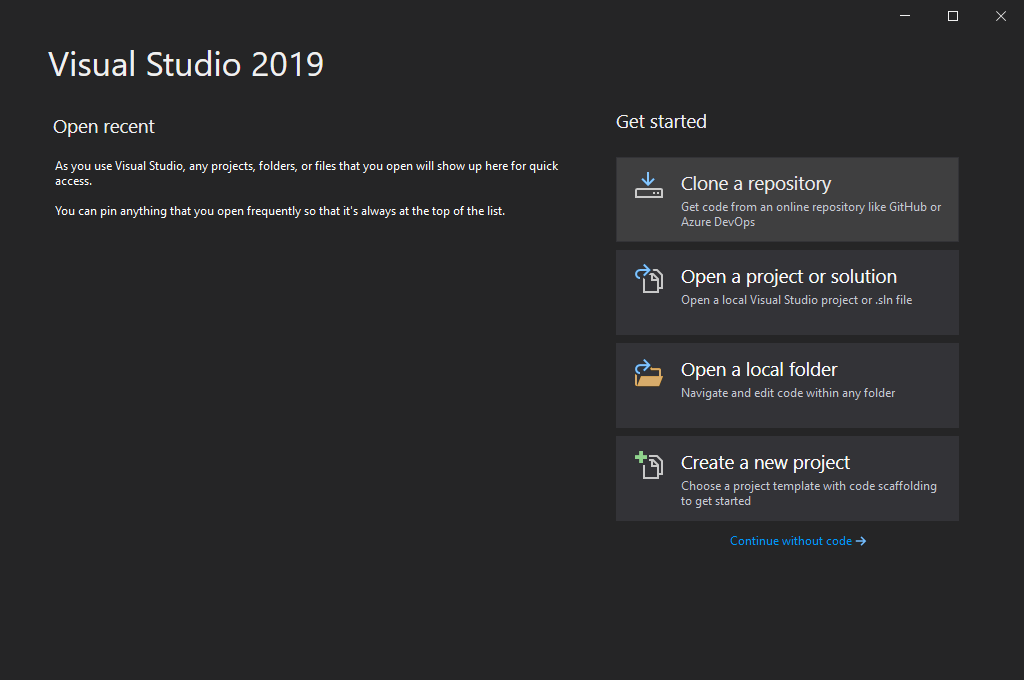
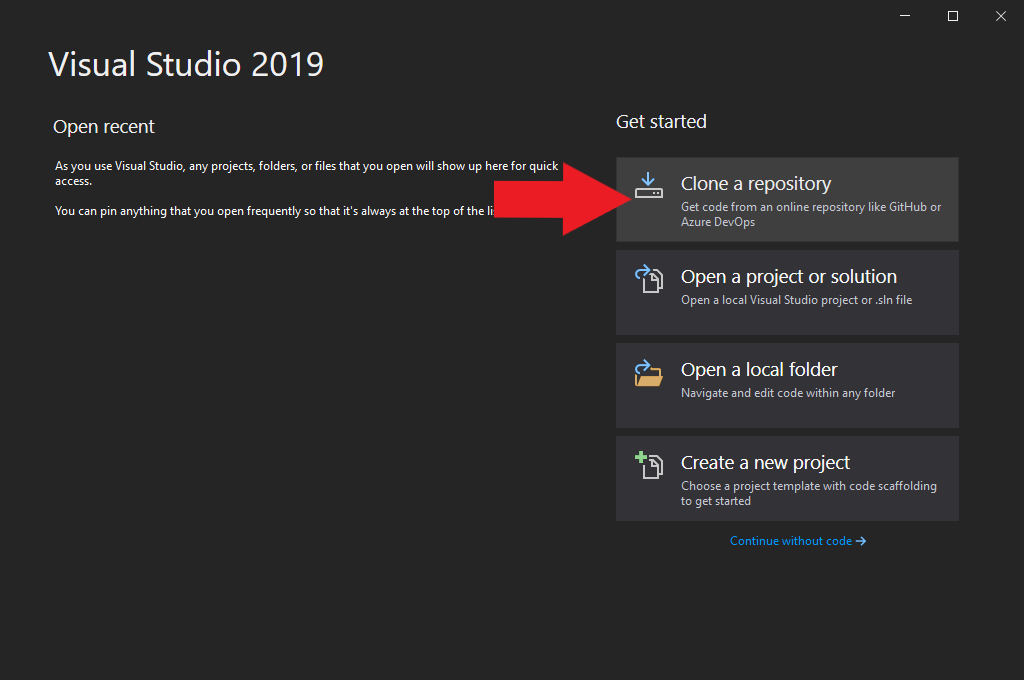
Edit images and formatting exercise1

Changed region(s): [[0.4688, 0.2471, 0.625, 0.3397]]

diff --git a/template/steeltoe/styles/docfx.js b/template/steeltoe/styles/docfx.js
@@ -37,14 +37,17 @@ $(function () {
           val = "\""+val+"\"";
           break;
       };
-      
-      var a=$("article").html().replace('%%'+localStorage.key(i)+'%%',val);
-      $("article").html(a);
-    }
 
-    a=$("article").html().replace(/%%/g,'');
-    $("article").html(a);
-    a=null;
+      $("pre").each(function(idx){
+        var a=$(this);
+        a.html(a.html().replace('%%'+localStorage.key(i)+'%%',val));
+      });
+    }
+    
+    $("pre").each(function(idx){
+      var a=$(this);
+      a.html(a.html().replace(/%%/g,'#'));
+    });
 
     var options = {
       contentSelector: "#wrapper",

diff --git a/labs/spring-one/exercise1.md b/labs/spring-one/exercise1.md
@@ -4,6 +4,7 @@ _disableToc: true
 _disableFooter: true
 ---
 
+[vs-get-started]: ~/labs/images/vs-get-started.png "Visual Studio get started"
 [vs-new-proj]: ~/labs/images/vs-new-proj.png "New visual studio web project"
 [vs-name-proj]: ~/labs/images/vs-configure-project.png "Name project"
 [vs-create-proj]: ~/labs/images/vs-create-project.png "Create an api project"
@@ -37,13 +38,21 @@ Begin building an API that will be enhanced with more components in the next exe
 
 ## Get Started
 
-Let's start by creating a brand new .NET Core webapi project. If you're using Visual Studio, choose `File > New > Project`
+Let's start by creating a brand new .NET Core webapi project.
 
 # [Visual Studio](#tab/visual-studio)
 
-![vs-new-proj] Choose ASP.NET Core Web Application from the default templates.
-![vs-name-proj] The default project name WebApplication1 will be used throughout, but you can rename.
-![vs-create-proj] Choose an application type of API, everything else can keep its default value.|
+Select "Create a new project". (If Visual Studio is already open, choose `File > New > Project`.)
+![vs-get-started]
+
+Choose "ASP.NET Core Web Application" from the default templates.
+![vs-new-proj]
+
+The default project name WebApplication1 will be used throughout, but you can rename.
+![vs-name-proj]
+
+Choose an application type of API, everything else can keep its default value.
+![vs-create-proj] 
 
 # [.NET CLI](#tab/dotnet-cli)
 
@@ -52,22 +61,28 @@ dotnet new webapi -n WebApplication1
 cd WebApplication1
 ```
 
+To use Visual Studio as your IDE open Visual Studio program, choose "Open a project or solution", navgiate to the WebApplication1 folder, and select the file "WebApplication1.csproj".
+
+To use VS Code as your IDE:
+```powershell
+code .
+```
+
 ***
 
-## Create .NET Core application
+## Add Project Dependencies
 
-Once created, open the new project in your IDE of choice (we will be using Visual Studio throughout this lab). The first action is to bring in the Steeltoe packages to the app. You can do this by right clicking on the project name in the solution explorer and choose `Manage NuGet packages...`. In the package manger window choose `Browse`, search for `Steeltoe.Management.Endpointcore`, and install.
+Once the project is created and opened in your IDE, the first action is to bring in the Steeltoe packages to the app.
 
 # [Visual Studio](#tab/visual-studio)
 
+Right click on the project name in the solution explorer and choose "Manage NuGet packages...". In the package manger window choose "Browse", then search for `Steeltoe.Management.Endpointcore`, and install.
 ![vs-add-endpointcore]
 
 Then search for the `Steeltoe.Extensions.Logging.DynamicLogger` package and install.
-
 ![vs-add-dynamiclogger]
 
 Finally the `Steeltoe.Management.TracingCore` package and install.
-
 ![vs-add-tracingcore]
 
 # [.NET CLI](#tab/dotnet-cli)
@@ -84,7 +99,13 @@ dotnet add package Steeltoe.Management.TracingCore
 
 Steeltoe features are broken up into packages, giving you the option to only bring in and extend the dependencies needed. As we implement each package within the application we'll discuss why these packages were chosen.
 
-Open `Program.cs` and append the adding statements to the host builder. Visual Studio should prompt to add the `using Steeltoe.Management.Endpoint` direction.
+Open "Program.cs" in the IDE and add the using statement
+
+```csharp
+using Steeltoe.Management.Endpoint
+```
+
+Then append the 'adding' statements to the host builder
 
 ```csharp
 public static IHostBuilder CreateHostBuilder(string[] args) =>
@@ -100,14 +121,21 @@ public static IHostBuilder CreateHostBuilder(string[] args) =>
 		;
 ```
 
-We've implemented 3 features within the application by adding these actuators.
-- The health actuator will add a new endpoint at `/actuators/health`. Internally this function uses .NET's IHealthContributor to "decide" if everything is reporting good health and responds with HTTP 200 status. Also within the response body there is a json formatted message to accomodate a deeper check that specfic platforms like Cloud Foundry and Kubernetes do.
-- The info actuator adds a new endpoint at `/actuators/info`. This function gathers all kinds of information like versioing information, select package information, and DLL info. Everything is formatted as json and included in the response.
+We've implemented 3 features within the application by adding these actuators
+
+- The health actuator will add a new endpoint at `/actuators/health`. Internally this function uses .NET's IHealthContributor to "decide" if everything is reporting good health and responds with HTTP 200 status. Also within the response body there is a json formatted message to accommodate a deeper check that specific platforms like Cloud Foundry and Kubernetes do.
+- The info actuator adds a new endpoint at `/actuators/info`. This function gathers all kinds of information like versioning information, select package information, and DLL info. Everything is formatted as json and included in the response.
 - The loggers actuator enables enhanced log message details via ILogger.
 
 ## Enable distributed tracing
 
-Now open `Startup.cs` and add distributed tracing features, Visual Studio should prompt you to add the `using Steeltoe.Management.Tracing` direction.
+Now open "Startup.cs" in the IDE and add the using statement
+
+```csharp
+using Steeltoe.Management.Tracing
+```
+
+Then add the distributed tracing feature to the services container
 
 ```csharp
 public void ConfigureServices(IServiceCollection services) {
@@ -118,13 +146,14 @@ public void ConfigureServices(IServiceCollection services) {
 }
 ```
 
-With the addition of distributed tracing option, under the covers Steeltoe uses the OpenTelemetry specification to generate spans and traces throughout the application, as requests are recieved. No additional configuration is needed.
+With the addition of distributed tracing option, under the covers Steeltoe uses the OpenTelemetry specification to generate spans and traces throughout the application, as requests are received. No additional configuration is needed but if you wanted to manipulate how traces and spans are created you could provide settings in "appsettings.json", [read the docs](https://steeltoe.io/docs/3/tracing/distributed-tracing) for more information.
 
-Also having the combination of the logging actuator and distributed tracing implemented, Steeltoe will automatically append the application name, span Id, and trace Id on log messages when possible. This can be very handy when debugging a specific happening and error in production.
+> [!TIP]
+> Having the combination of the logging actuator and distributed tracing implemented, Steeltoe will automatically append the application name, span Id, and trace Id on log messages when possible. This can be very handy when debugging a specific happening or error in production.
 
 ## Add a sample logging message
 
-To see the trace logging in action, lets add a log message in `Controllers\WeatherForecastController.cs` controller. Append the below message as the first line with the 'Get' function.
+To see the trace logging in action lets add a log message in "Controllers\WeatherForecastController.cs" controller class. Append the below message as the first line with the 'HttpGet' function.
 
 ```csharp
 [HttpGet]
@@ -138,13 +167,17 @@ public IEnumerable<WeatherForecast> Get() {
 
 ## Run the application
 
-With the packages implemented in host builder, distributed tracing activated, and a sample log message being written to console, we are ready to see everything in action. Start the application by clicking the `Debug > Start Debugging` top menu item.
+With the packages implemented in host builder, distributed tracing activated, and a sample log message being written to console, we are ready to see everything in action. Run the application.
 
 # [Visual Studio](#tab/visual-studio)
+
+Clicking the `Debug > Start Debugging` top menu item. Once started your default browser should open and automatically load the weather forecast endpoint.
 
 ![vs-run-application]
 
 # [.NET CLI](#tab/dotnet-cli)
+
+Executing the below command will start the application. You will see a log message written telling how to navigate to the application. It should be [http://localhost:5000/weatherforecast](http://localhost:5000/weatherforecast).
 
 ```powershell
 dotnet run
@@ -152,7 +185,7 @@ dotnet run
 
 ***
 
-Once started your default browser should open and automatically load the weather forecast endpoint.
+With the application running and the weather forecast endpoint loaded your browser should show the following
 
 ![run-weatherforecast]
 
@@ -162,7 +195,7 @@ Let's look at the health endpoint. Replace `WeatherForecast` with `actuators/hea
 
 ![health-endpoint]
 
-As we discussed above, the page loaded with a status of 200 and output information to help application platforms gain a deeper "knowledge" of app health.
+As we discussed above, the fact that the page loaded (status of 200) is the first communication to the application's platform that it is healthy. Secondarily the application has output information to help  certain platforms gain a deeper knowledge of app health. Learn more about the health endpoint [here](https://steeltoe.io/docs/3/management/health).
 
 ## Discover the info endpoint
 
@@ -170,22 +203,35 @@ Now navigate to the info endpoint by replacing `health` with `info` in the addre
 
 ![info-endpoint]
 
-Relevant app info is output, with json formatting.
+We have loaded the bare minimum application info for this example. You could build your own 'IInfoContributor' and add all kinds of meta data and connection information. Learn more [here](https://steeltoe.io/docs/3/management/info).
 
 ## Observe trace and spans appended to logs
 
-Finally lets look at the log message that was written by going back to Visual Studio (keep the app running) and locate the Output window. Choose `Webapplication1 - ASP.NET Core Web Server` in the "from" dropdown and scroll to the bottom of the log. (If you're using the dotnet cli, the logs should be output in the same window you ran the app.)
+Finally lets look at the log message that was written. Notice the additional information propended to the message.
 
-![trace-log]
-
-Locate the "Hi there" log message. Notice the additional information prepended to the messsage.
 - The first item is the application's name
 - Second is the OpenTelemetry generated span id
 - Third is the OpenTelemetry generated trace id
 
+# [Visual Studio](#tab/visual-studio)
+
+Go back to Visual Studio (keep the app running) and locate the Output window. Choose `Webapplication1 - ASP.NET Core Web Server` in the "from" dropdown and scroll to the bottom of the log.
+
+![trace-log]
+
+# [.NET CLI](#tab/dotnet-cli)
+
+Go back to the terminal window where the application was started. The logs should be streaming. Locate the following line:
+
+```plaintext
+[WebApplicaion1, 917e146c942117d2, 917e146c942117d2, true] Hi there
+```
+
+***
+
 ## Summary
 
-These are the basics of any cloud ready microservice. Logging and debugging are significantly different than a traditional IIS environment. But! A developer shouldn't be spending tons of time coding these buildplate-type things. Heeelllo Steeltoe!
+These are the basics of any cloud ready microservice. Logging and debugging are significantly different than a traditional IIS environment. But! A developer shouldn't be spending tons of time coding these boilerplate-type things. Heeelllo Steeltoe!
 
 |[<< Back to Introduction][home-page-link]|[Next Exercise >>][exercise-2-link]|
 |:--|--:|
